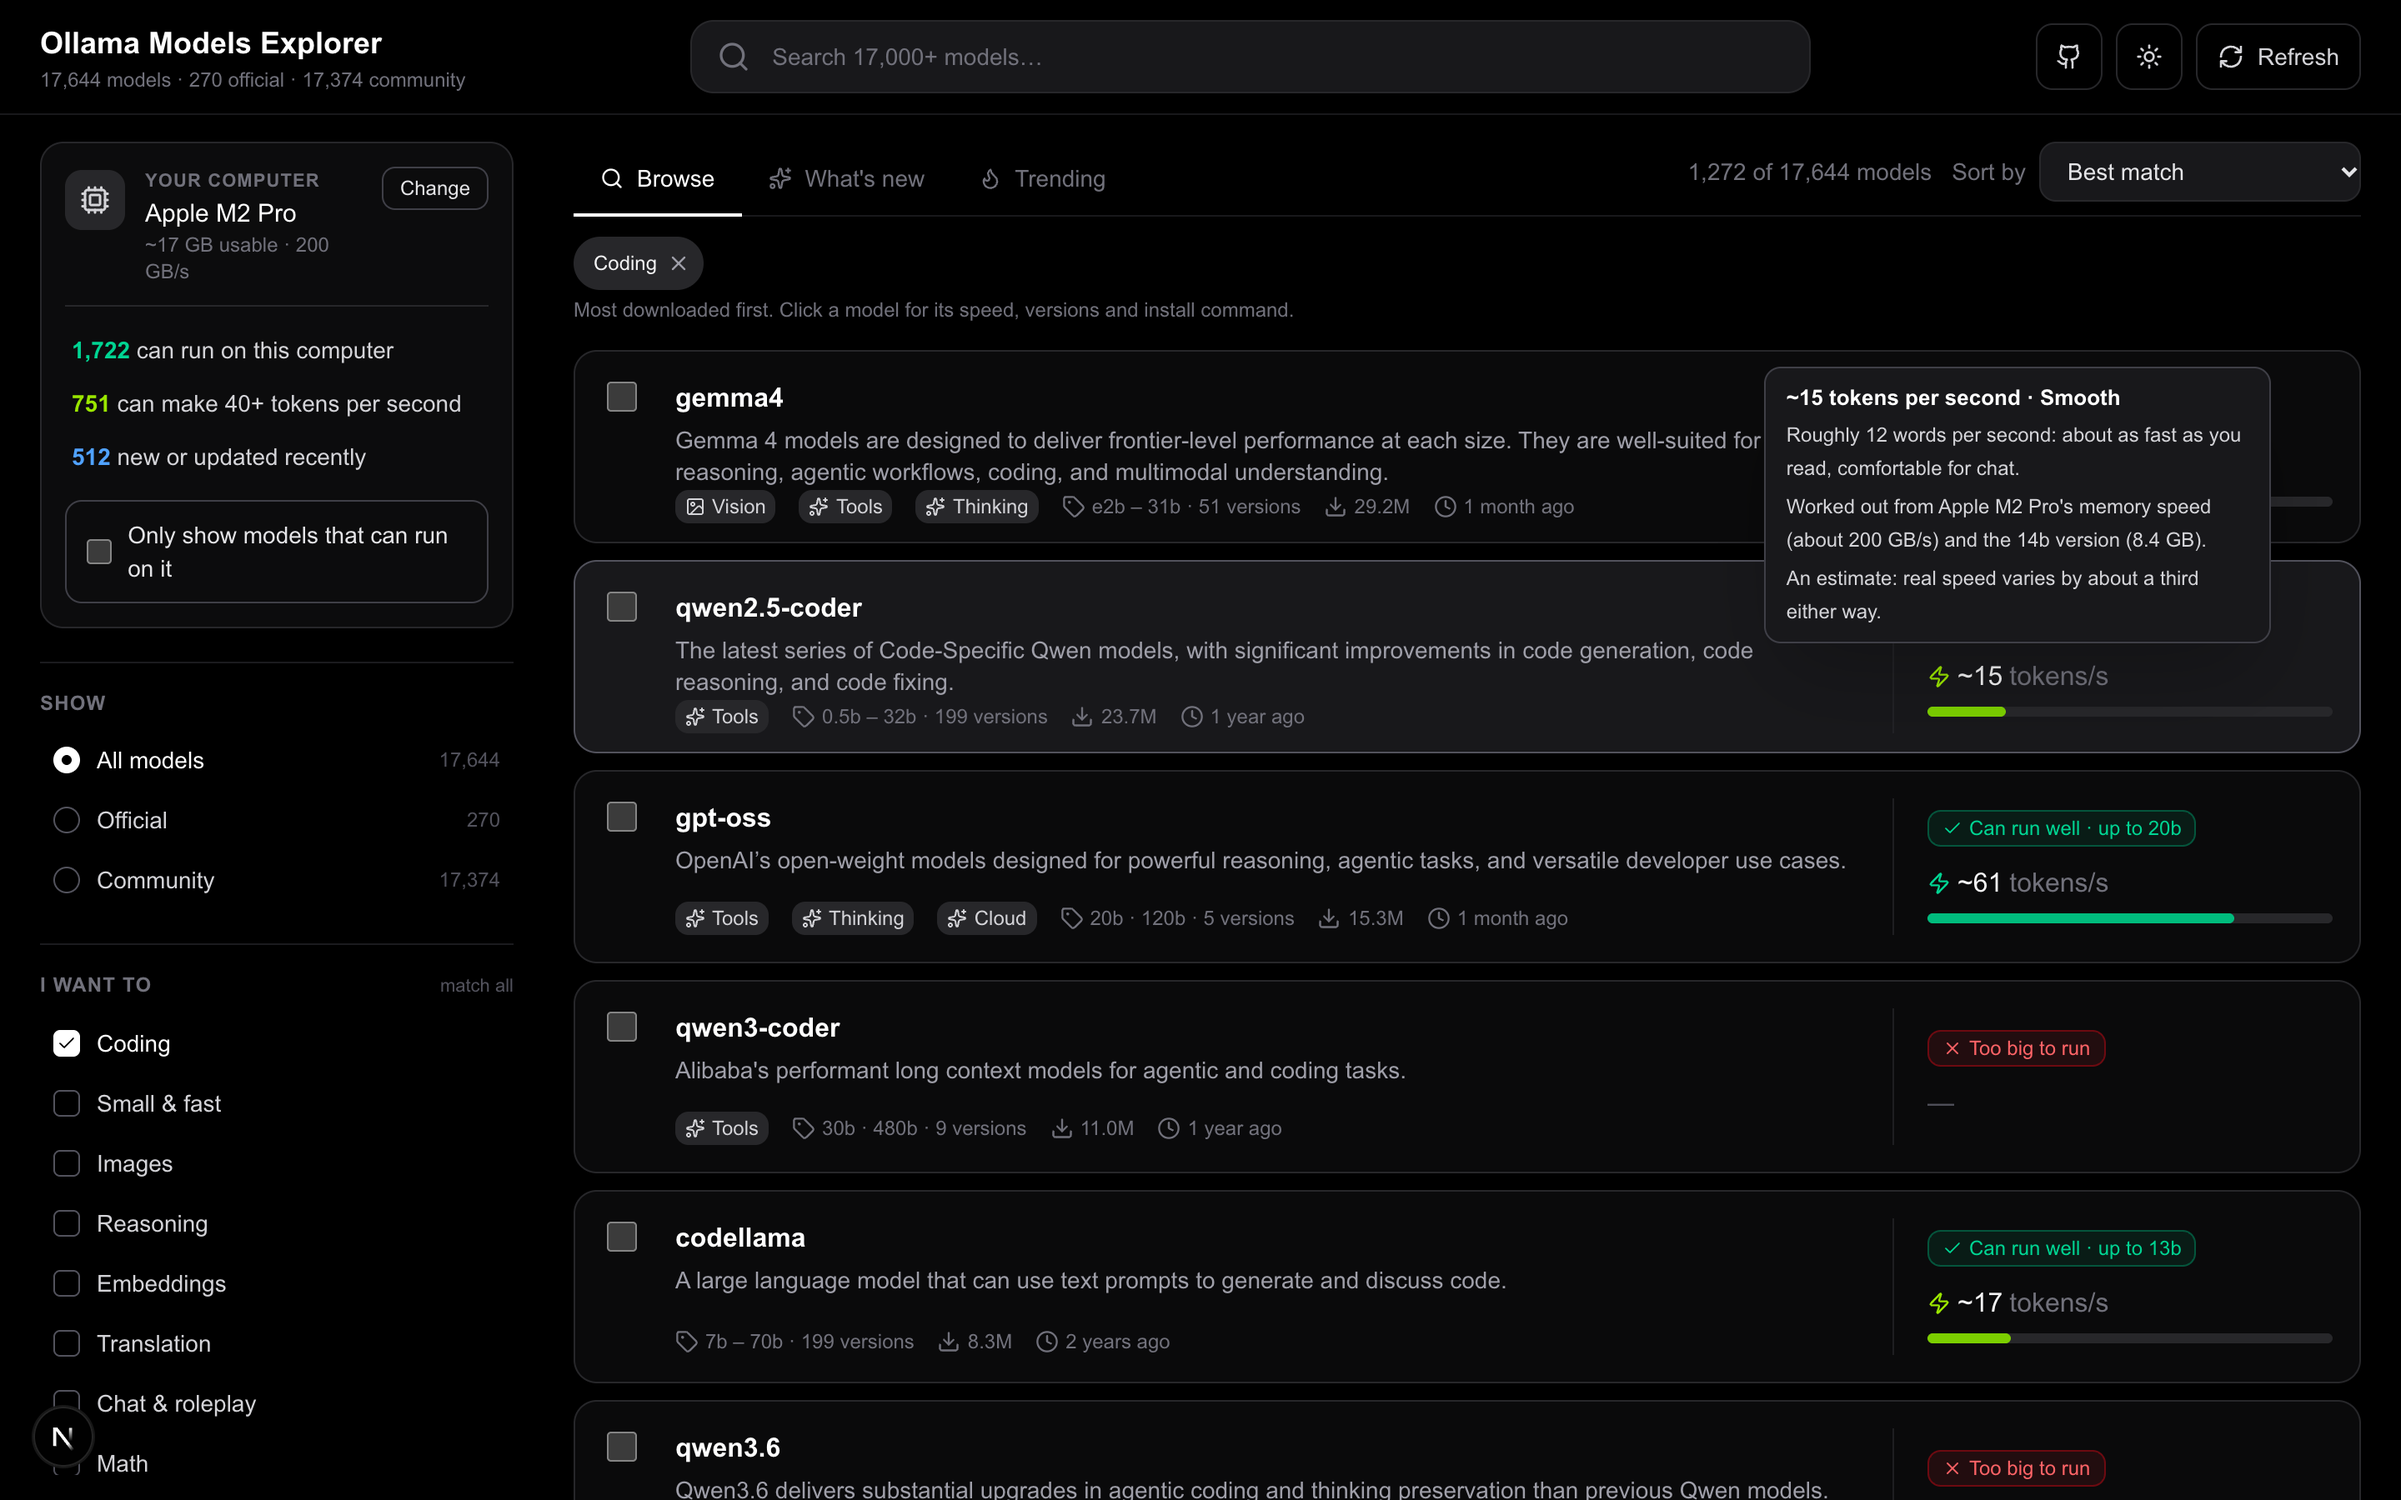
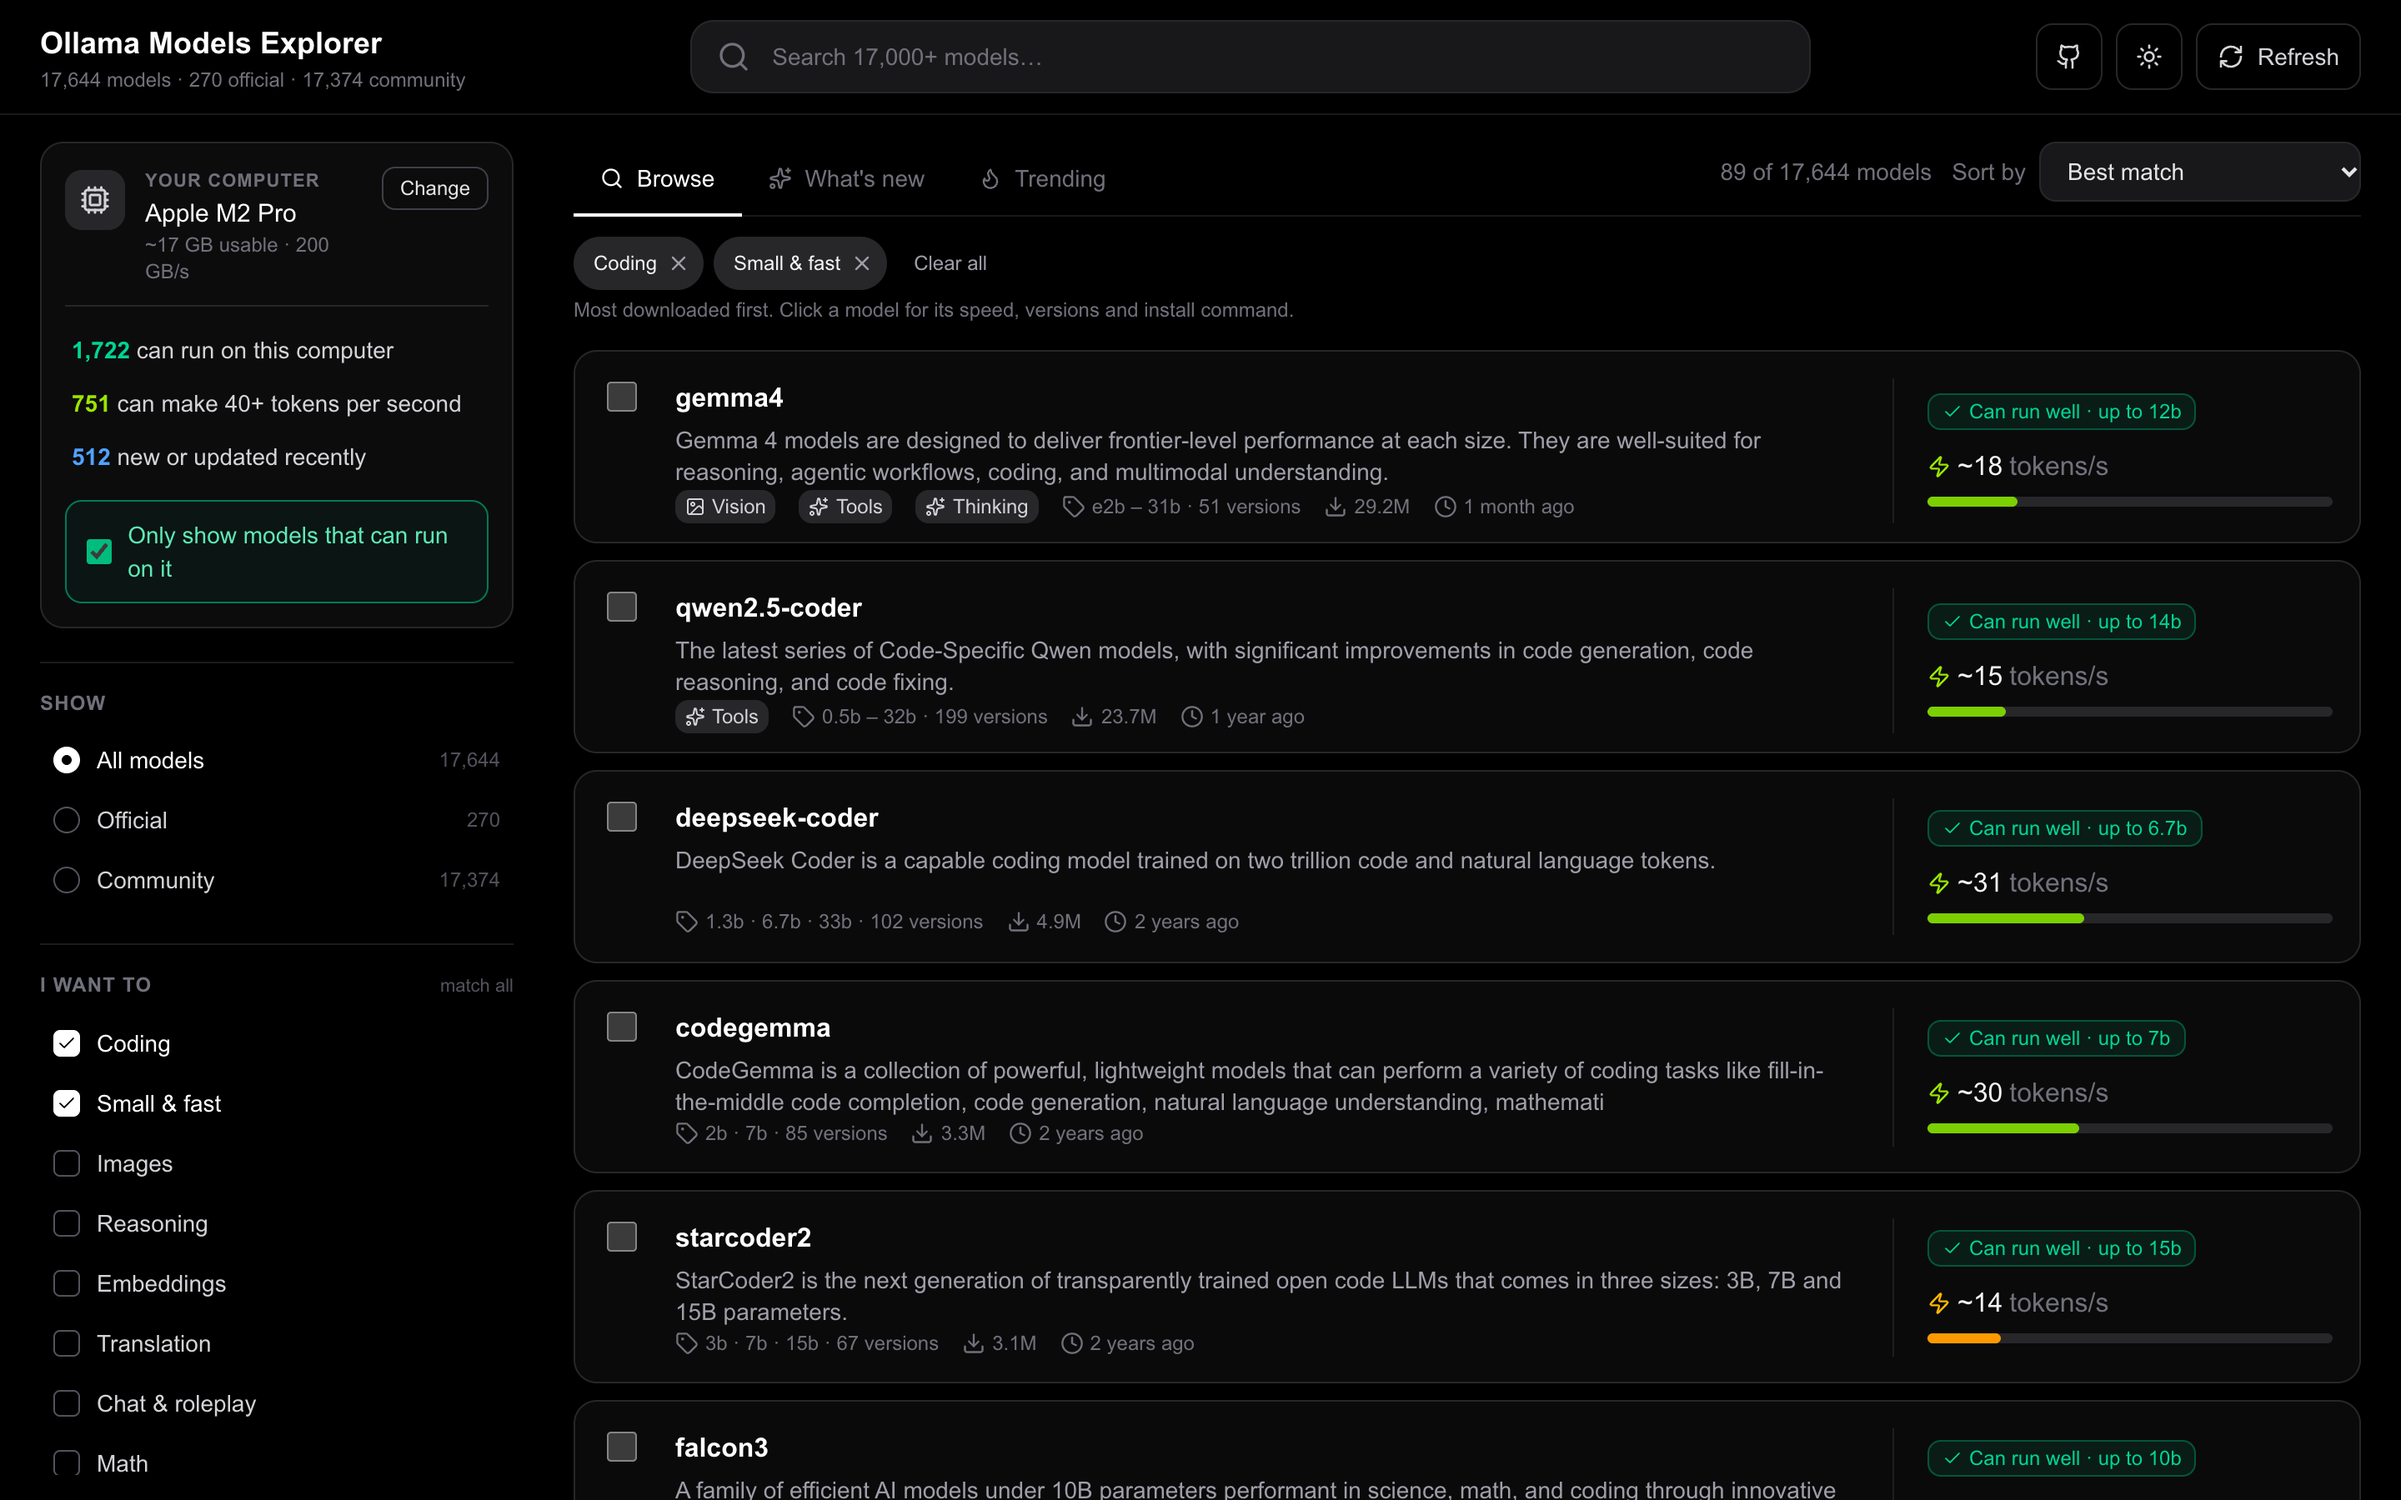
Ollama Models Explorer: new screenshots, why it exists, self-host request

diff --git a/apps/ollama-models-explorer.md b/apps/ollama-models-explorer.md
@@ -8,6 +8,11 @@ screenshots:
   - screenshots/ollama-models-explorer/4.png
   - screenshots/ollama-models-explorer/5.png
   - screenshots/ollama-models-explorer/6.png
+  - screenshots/ollama-models-explorer/7.png
+  - screenshots/ollama-models-explorer/8.png
+  - screenshots/ollama-models-explorer/9.png
+  - screenshots/ollama-models-explorer/10.png
+  - screenshots/ollama-models-explorer/11.png
 category: Developer Tools
 summary: Find the right Ollama model. Search 17,000+ models, see which run on your computer and how fast, compare them, and copy the install command
 tags: [Ollama, AI models, LLM, Model browser, Compare, Search, Mobile friendly, Next.js, Dark mode]
@@ -18,14 +23,14 @@ platforms:
   Web: https://ollama-models-explorer.vercel.app/
 ---
 
-**Find the right Ollama model without clicking through hundreds of pages.**
+**Find the right Ollama model for your computer.**
 
-Ollama hosts a huge number of models, and its own site is slow to scan. Ollama Models Explorer puts every one of them in one fast table, and tells you which ones will actually run on your computer.
+Ollama's own website does not show what you need to choose a model when you do not have high-end hardware. This app was built to fix that. It lists every model, says which ones can run on your computer and how fast, and lets you narrow 17,000+ models down to the few worth trying.
 
 ## What it does
 
 1. **Every model on Ollama.** The 270 official models, plus more than 17,000 community models uploaded by other people (named `user/model`). Switch between **All**, **Official** and **Community**.
-2. **Will it run on my computer, and how fast?** The page works out your graphics card or Apple chip by itself, so you type nothing. Each model is marked **Runs well**, **Tight fit**, **Too big** or **Cloud**, with an estimate of **tokens per second** (about three quarters of a word each). If the guess is off, one tap picks the closest computer. One switch hides everything that will not run, and you can sort or filter by speed.
+2. **Will it run on my computer, and how fast?** The page works out your graphics card or Apple chip by itself, so you type nothing. Each model is marked **Can run well**, **Barely fits**, **Too big to run** or **Cloud**, with an estimate of **tokens per second** (about three quarters of a word each). If the guess is off, one tap picks the closest computer. One switch hides every model that cannot run, and you can sort or filter by speed.
 3. **"I want to" picks**: Coding, Small and fast, Images, Reasoning, Embeddings, Translation, Chat and roleplay, Math, Tool use. Pick several at once and every model must match all of them.
 4. **Click any model** for its details: will it run and how fast, the exact install command with a copy button (including the best version for your computer), every version with its size and speed, context window, downloads and more.
 5. **Hover anything** for a plain-words explanation of what a badge, number or heading means and how it was worked out.
@@ -41,4 +46,4 @@ Ollama hosts a huge number of models, and its own site is slow to scan. Ollama M
 
 The list is long, so rows load as you scroll. A script rebuilds the full list every week, so new models show up after the next refresh. The **Refresh Data** button re-reads the official models with all their versions. "Runs on my computer" and the speed are estimates, because browsers hide exact hardware. Speed is worked out from your memory speed and the model's size, so expect it to be within about a third of what you really get. Official models use their real download sizes, and the rest are estimated from the parameter count.
 
-It is a Next.js app. To run it yourself, clone the repository, run `yarn install`, then `yarn dev`.
+**Please self-host it if you can.** The public site runs on a free host, so it is not very fast and not always up. A copy on your own computer is faster and takes a minute: clone the repository, run `yarn install`, then `yarn dev`.
